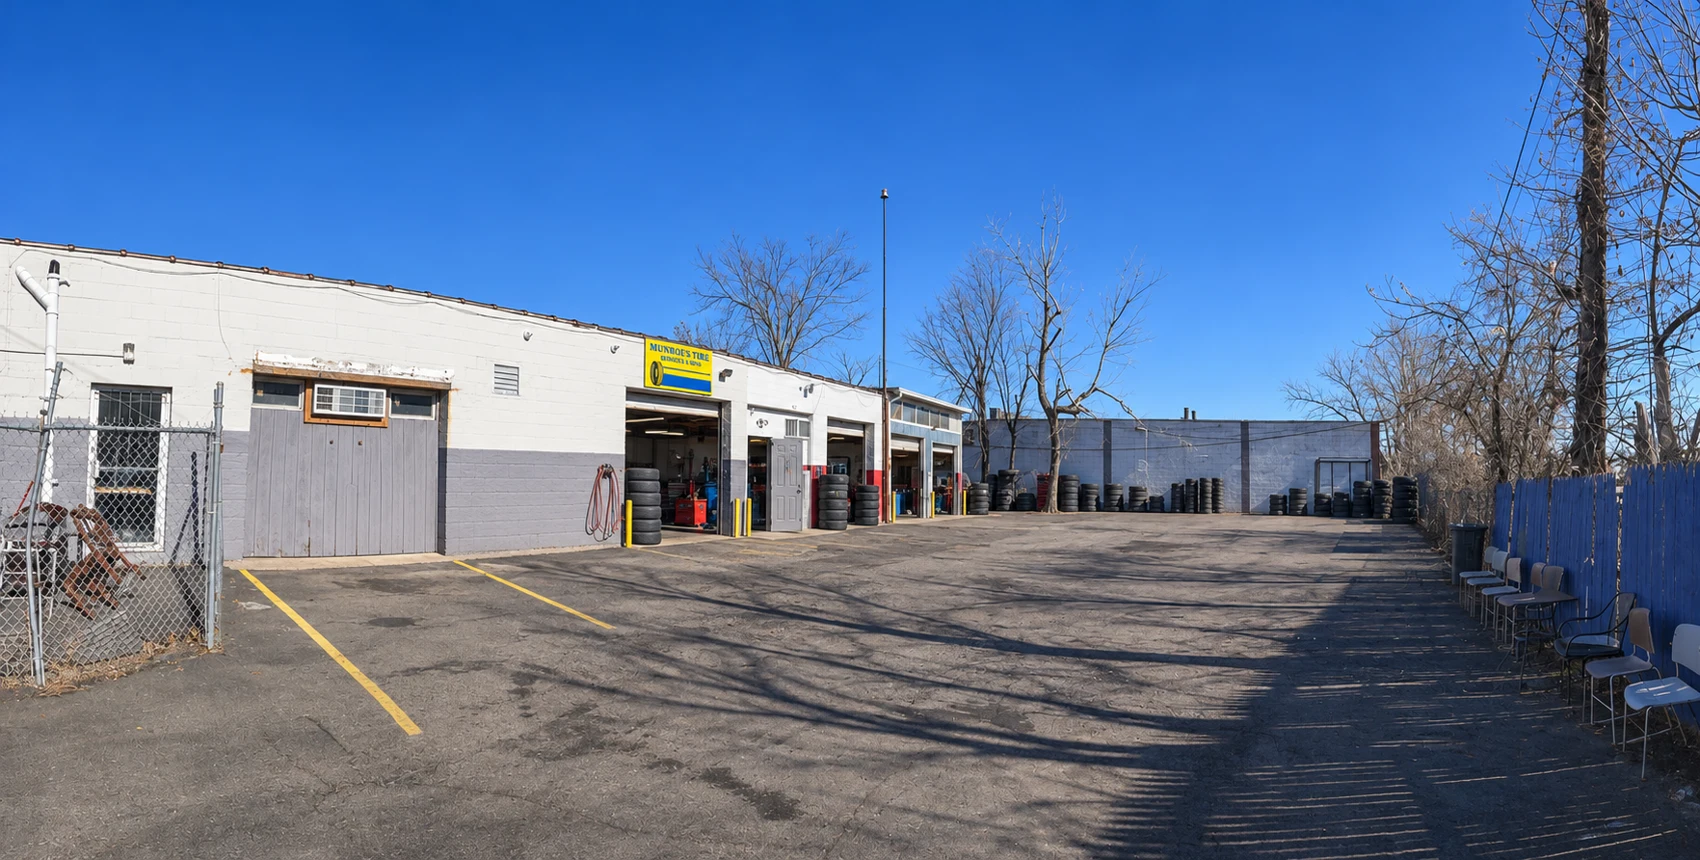
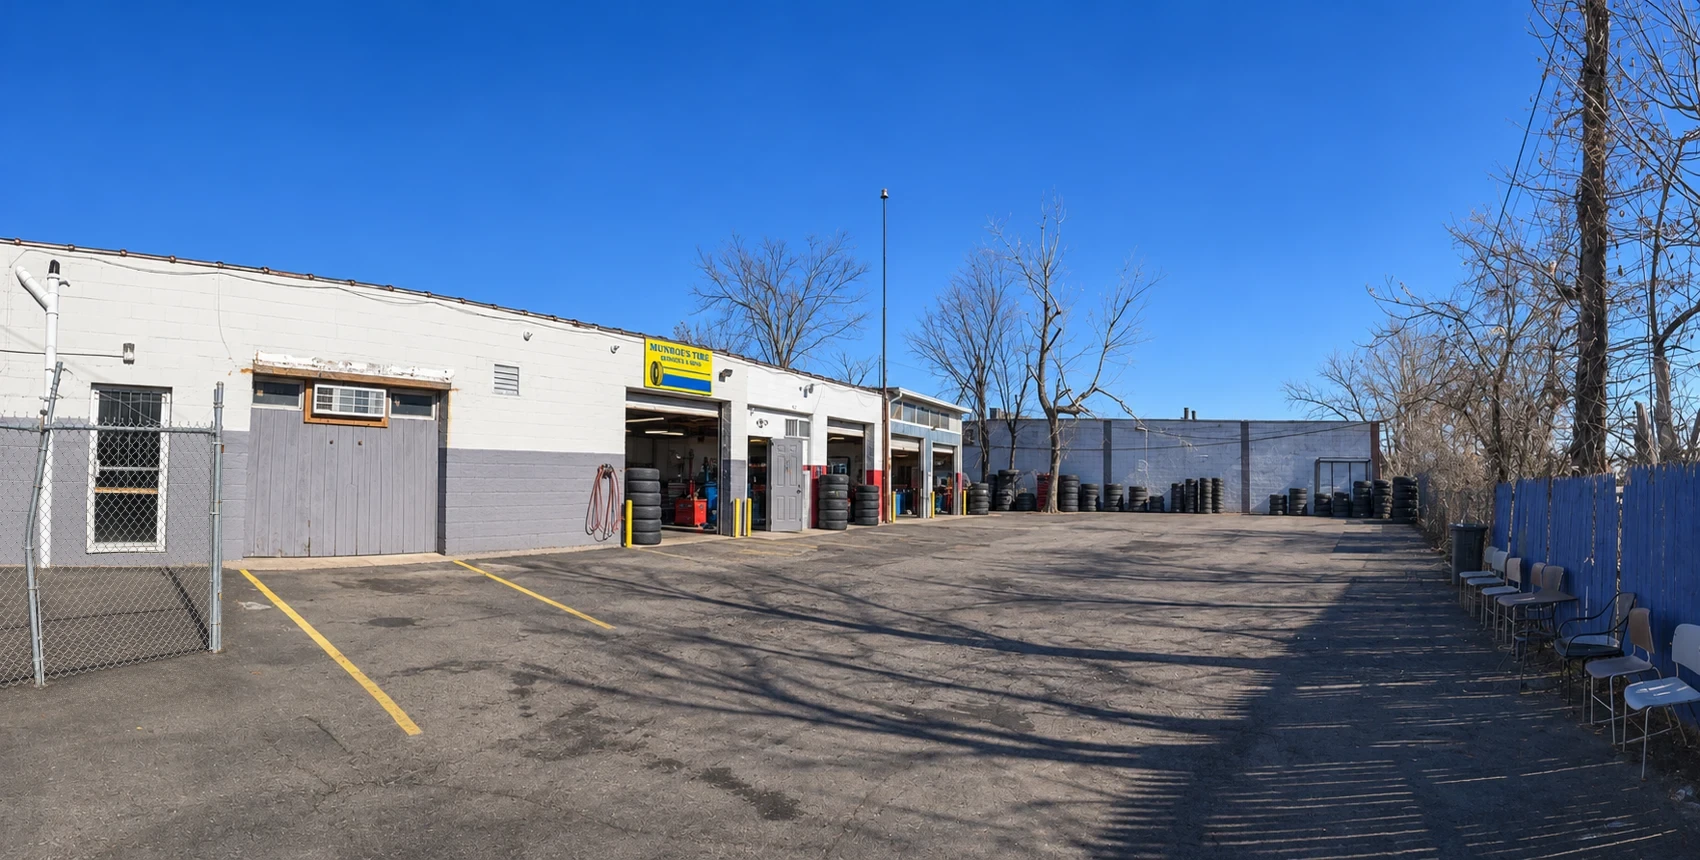
Refresh storefront and service bay photos and Hartford shop section

Changed region(s): [[0.0, 0.514, 0.1559, 0.8163]]

diff --git a/index.html b/index.html
@@ -86,7 +86,25 @@
     </div>
   </div>
 </section>
-<section id="photos" class="wrap block"><h2>Around the shop</h2><div class="gallery"><figure><img loading="lazy" src="assets/photos/roadside-sign.webp" alt="Munroe’s roadside sign above yellow banners advertising used tires, free air pressure checks and speed balancing"><figcaption>The Main Street sign</figcaption></figure><figure><img loading="lazy" src="assets/photos/waiting-room.webp" alt="Stacks of tires and a red floor jack on the red-and-black checkered floor inside the service bay"><figcaption>Inside the shop</figcaption></figure><figure><img loading="lazy" src="assets/photos/shop-yard.webp" alt="Cars parked outside the service bays beside a chain-link fence with a yellow “Quality Used Tires” banner"><figcaption>The service yard</figcaption></figure></div></section>
+<section id="photos" class="wrap block shop-visit" aria-labelledby="shop-visit-title">
+  <div class="shop-intro">
+    <h2 id="shop-visit-title">Our tire shop in Hartford, CT</h2>
+    <p>Look for the yellow Munroe’s Tire sign at 3430 Main Street. Inside the bay, we carry both new and used tires. Call us with the size on your tire’s sidewall and we’ll check what’s on the rack before you make the trip.</p>
+    <p>If you keep losing air, bring the tire in. We’ll check the pressure and look for the leak. We also mount, balance and rotate tires right here in the shop.</p>
+    <a href="#services">See tire services and prices</a>
+    <a href="#visit">Get directions and shop hours</a>
+  </div>
+  <div class="gallery">
+    <figure>
+      <a href="assets/photos/roadside-sign.webp" aria-label="View the full-size Main Street sign"><img class="shop-sign" loading="lazy" src="assets/photos/roadside-sign.webp" width="1050" height="1400" alt="Munroe’s roadside sign above yellow banners for used tires and free air pressure checks"></a>
+      <figcaption>Our sign on Main Street</figcaption>
+    </figure>
+    <figure>
+      <img loading="lazy" src="assets/photos/service-bay.webp" width="1050" height="1400" alt="Tire stacks, a mounting machine and a red floor jack inside Munroe’s service bay">
+      <figcaption>Inside the tire bay</figcaption>
+    </figure>
+  </div>
+</section>
 <section class="reviews" id="reviews" aria-labelledby="reviews-title">
   <div class="wrap block">
     <div class="reviews-heading">

diff --git a/styles.css b/styles.css
@@ -88,8 +88,16 @@ td { text-align: right; white-space: nowrap; font-variant-numeric: tabular-nums;
 .owner-story { padding-block: clamp(36px, 5vw, 70px); }
 .owner h2 { color: white; }
 .owner p { max-width: 52ch; margin-top: 20px; font-size: 1.25rem; }
-.gallery { display: grid; grid-template-columns: repeat(3,1fr); gap: 18px; margin-top: 28px; }
-.gallery img { width: 100%; aspect-ratio: 4/3; object-fit: cover; border-radius: 12px; }
+.shop-visit { display: grid; grid-template-columns: minmax(0, 1fr) minmax(0, 1.65fr); align-items: center; gap: clamp(28px, 4vw, 64px); }
+.shop-intro h2 { max-width: 15ch; }
+.shop-intro p { margin-top: 16px; max-width: 54ch; }
+.shop-intro a { display: block; width: fit-content; margin-top: 12px; color: var(--navy); font-weight: 600; }
+.gallery { display: grid; grid-template-columns: repeat(2, minmax(0, 1fr)); gap: 16px; }
+.gallery img { width: 100%; height: auto; display: block; border-radius: 12px; }
+.gallery a { display: block; border-radius: 12px; }
+.shop-sign { filter: contrast(1.08) saturate(1.04); }
+@media (max-width: 900px) { .shop-visit { grid-template-columns: 1fr; } }
+
 figcaption { font-size: 1.4rem; color: var(--navy); margin-top: 8px; }
 .cta { background: var(--yellow); text-align: center; padding-block: 54px; }
 .cta p { margin: 14px auto 20px; }
@@ -132,12 +140,13 @@ figcaption { font-size: 1.4rem; color: var(--navy); margin-top: 8px; }
 .policy h2 { font-size: 2rem; margin-top: 32px; }
 .policy p { margin-top: 16px; }
 @media (max-width: 760px) {
-  .hero, .visit, .owner-inner, .prices-grid, .gallery { grid-template-columns: 1fr; }
+  .hero, .visit, .owner-inner, .prices-grid { grid-template-columns: 1fr; }
   .hero-copy { padding: 36px var(--gutter); }
   .hero h1 br { display: none; }
   .building { aspect-ratio: 2/1; height: auto; }
   .visit { gap: 28px; margin-top: 28px; }
-  .gallery { gap: 24px; }
+  .gallery { gap: 14px; }
+  @media (max-width: 540px) { .gallery { grid-template-columns: 1fr; gap: 24px; } }
   .owner-inner { gap: 0; }
   .owner-story { grid-row: 1; padding-bottom: 16px; }
   .owner img { height: 320px; }

diff --git a/scroll-effects.js b/scroll-effects.js
@@ -12,7 +12,7 @@
 
   const targets = document.querySelectorAll([
     '.visit > *', '#services > h2', '.prices', '.owner-inner > *',
-    '#photos > h2', '.gallery figure', '.reviews-heading', '.review-pair',
+    '.shop-intro', '.gallery figure', '.reviews-heading', '.review-pair',
     '.review-controls', '.faq > *', '.cta > .wrap', '.policy > *',
     '.footer-grid > *', '.footer-credit'
   ].join(', '));
